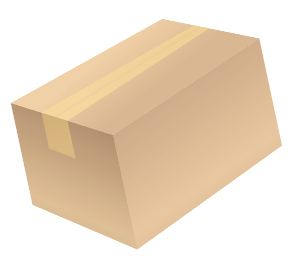
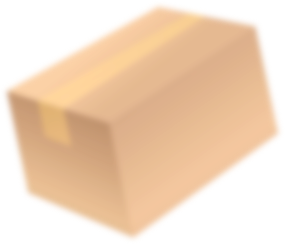
footer box

diff --git a/src/scss/style.scss b/src/scss/style.scss
@@ -54,16 +54,40 @@ section {
     padding-top: 4.5rem;
     padding-bottom: 7.5rem;
     @include media-breakpoint-down(md) {
+        padding-top: 3.5rem;
+        padding-bottom: 4.5rem;
         padding-left: 1rem;
         padding-right: 1rem;
     }
 }
 
 footer {
-    padding-top: 3.5rem;
-    padding-bottom: 3.5rem;
-    @include media-breakpoint-down(md) {
-        padding: 2rem 1rem;
+    overflow: hidden;
+    & > .container {
+        z-index: 2;
+        position: relative;
+        padding-top: 3.5rem;
+        padding-bottom: 3.5rem;
+        .box {
+            z-index: 1;
+            position: absolute;
+            right: 0;
+            bottom: -30px;
+            background-image: url('../img/box-footer.png');
+            background-size: contain;
+            background-repeat: no-repeat;
+            width: 285px;
+            height: 244px;
+        }
+        @include media-breakpoint-down(md) {
+            padding: 1.5rem;
+            .box {
+                width: 155px;
+                height: 133px;
+                bottom: 15px;
+                right: -30px;
+            }
+        }
     }
     .logo {
         width: 9rem;

diff --git a/src/html/includes/header.html b/src/html/includes/header.html
@@ -5,6 +5,7 @@
 	<meta name="viewport" content="width=device-width, initial-scale=1, shrink-to-fit=no" />
 	<link rel="stylesheet" href="css/app.css?t=<%=new Date().getTime()%>" />
 	<link rel="stylesheet" href="https://cdnjs.cloudflare.com/ajax/libs/font-awesome/5.12.1/css/all.min.css">
+    <link rel="stylesheet" href="https://cdnjs.cloudflare.com/ajax/libs/animate.css/3.7.2/animate.min.css">
 	<title>TrackGo</title>
 </head>
 <body>

diff --git a/src/html/includes/footer.html b/src/html/includes/footer.html
@@ -50,6 +50,7 @@
 						</a>
 					</div>
 				</div>
+				<div class="box animated pulse infinite slow"></div>
 			</div>
 
 		</footer>
